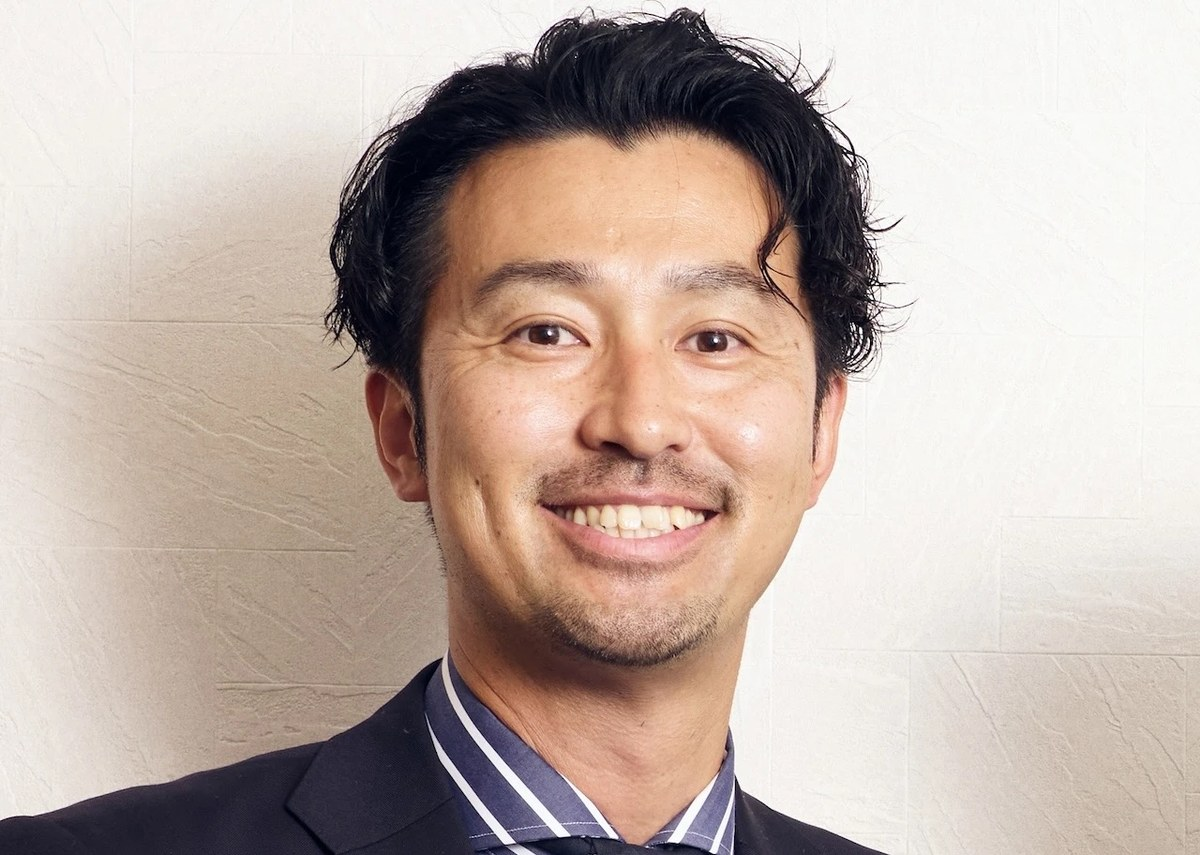
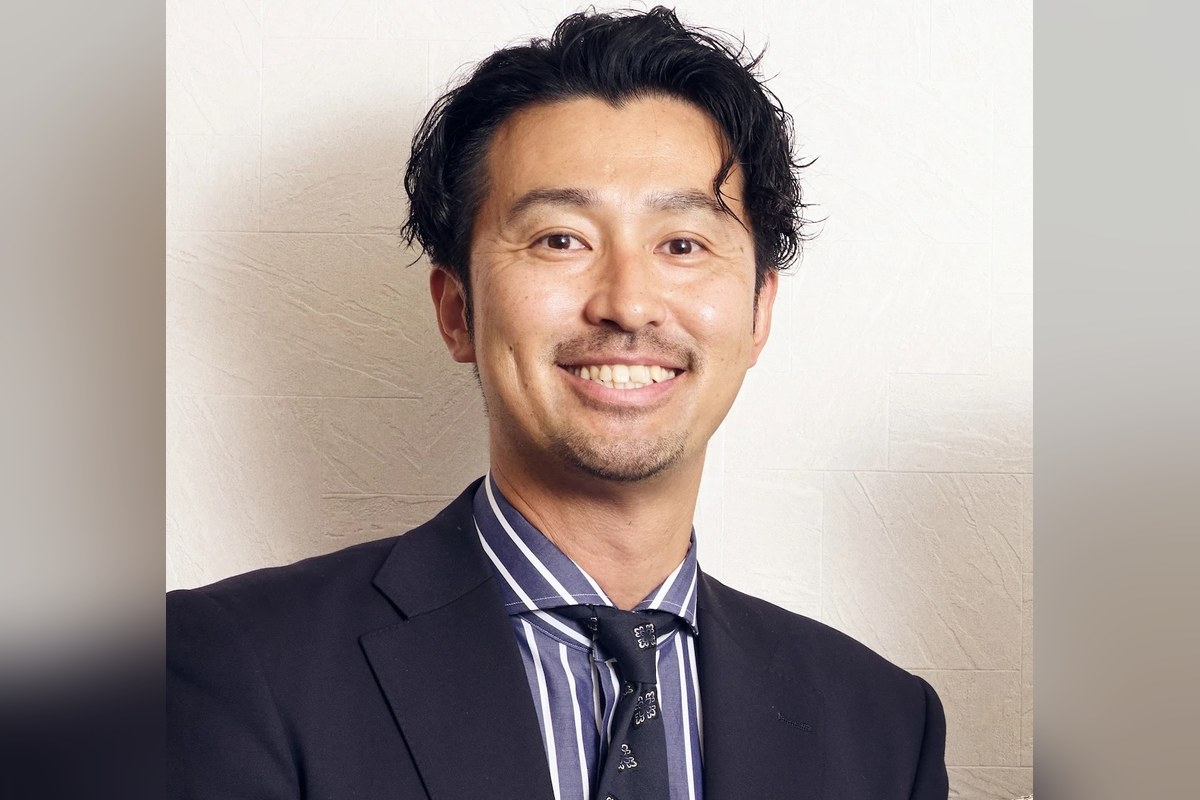
記事上部の画像を引きの表示にし、左右をぼかしで埋める
記事ページ上部の枠は 1184x460 と横に長く、object-fit: cover では
写真の縦が58%しか映らないため、人物写真が極端なアップになっていた。

- css/style.css, js/main.js: 上部画像を .article-hero-frame で包み、
  背景に同じ写真のぼかしを敷いた上で、前景を contain で全体表示にした。
  これで写真が切り取られず、余る左右はぼかしが埋める（横山さんの記事と同じ見え方）。
  モバイルでは枠の高さを280pxに下げる
- images/endo.jpg: 1200x800 のキャンバスに人物を中央配置し、
  背景をぼかしで埋める形に作り直した（横山さんの画像と同じ作り）
- netlify.toml: css/ もキャッシュしないようにした。CSS と JS は組で
  更新されるため、片方だけ古いと新しい markup を古いスタイルで描画してしまう

Claude-Session: https://claude.ai/code/session_01M9eEnjBsPeCzuWrrDBB8uR

diff --git a/js/main.js b/js/main.js
@@ -44,6 +44,21 @@
     return '<div class="ph-img ' + phClass + '"><span>写真: ' + escapeHtml(article.personName) + '様</span></div>';
   }
 
+  // 記事上部の大きな画像。横長の枠に写真全体を収め（引きの表示）、
+  // 余る左右は同じ写真をぼかして敷くことで埋める。
+  function renderHeroImage(article) {
+    if (!article.image) {
+      return '<div class="ph-img"><span>写真: ' + escapeHtml(article.personName) + '様</span></div>';
+    }
+    var src = escapeHtml(article.image);
+    return (
+      '<div class="article-hero-frame">' +
+        '<img class="article-hero-bg" src="' + src + '" alt="" aria-hidden="true">' +
+        '<img class="article-hero-img" src="' + src + '" alt="' + escapeHtml(article.personName) + '">' +
+      '</div>'
+    );
+  }
+
   function renderArticleCard(article) {
     return (
       '<a class="article-card" href="#' + escapeHtml(article.id) + '">' +
@@ -108,7 +123,7 @@
   function renderArticle(article) {
     var related = sortedArticles().filter(function (a) { return a.id !== article.id; });
 
-    document.getElementById('article-hero-wrap').innerHTML = renderCardImage(article, 'article-hero-img', '');
+    document.getElementById('article-hero-wrap').innerHTML = renderHeroImage(article);
     document.getElementById('article-meta').textContent = article.category + ' ｜ ' + formatDate(article.date);
     document.getElementById('article-title').textContent = article.title;
     document.getElementById('article-byline').textContent = article.company + '　' + article.personRole + '　' + article.personName;

diff --git a/css/style.css b/css/style.css
@@ -261,13 +261,32 @@ a:hover { opacity: .8; }
 .article-hero-wrap {
   margin: 24px 48px 0;
 }
-.article-hero-img {
+.article-hero-frame {
+  position: relative;
+  height: 460px;
+  overflow: hidden;
+  background: #161514;
+}
+/* 背景に敷く、同じ写真のぼかし。枠いっぱいに広げてから少し拡大し、
+   ぼかしで薄くなる端が見えないようにする。 */
+.article-hero-bg {
+  position: absolute;
+  inset: 0;
   width: 100%;
-  max-height: 460px;
+  height: 100%;
   object-fit: cover;
   object-position: center;
+  transform: scale(1.2);
+  filter: blur(28px) brightness(0.72);
+}
+/* 前景は contain。切り取らずに写真全体を見せる。 */
+.article-hero-img {
+  position: relative;
+  width: 100%;
+  height: 100%;
+  object-fit: contain;
+  object-position: center;
   display: block;
-  background: #161514;
 }
 .article-hero-wrap .ph-img { height: 420px; }
 
@@ -404,6 +423,7 @@ a:hover { opacity: .8; }
   }
   .article-grid,
   .related-grid { margin-left: 20px; margin-right: 20px; }
+  .article-hero-frame { height: 280px; }
   .hero-title { font-size: 30px; }
   .article-title { font-size: 24px; }
   .related-grid { grid-template-columns: 1fr; }
